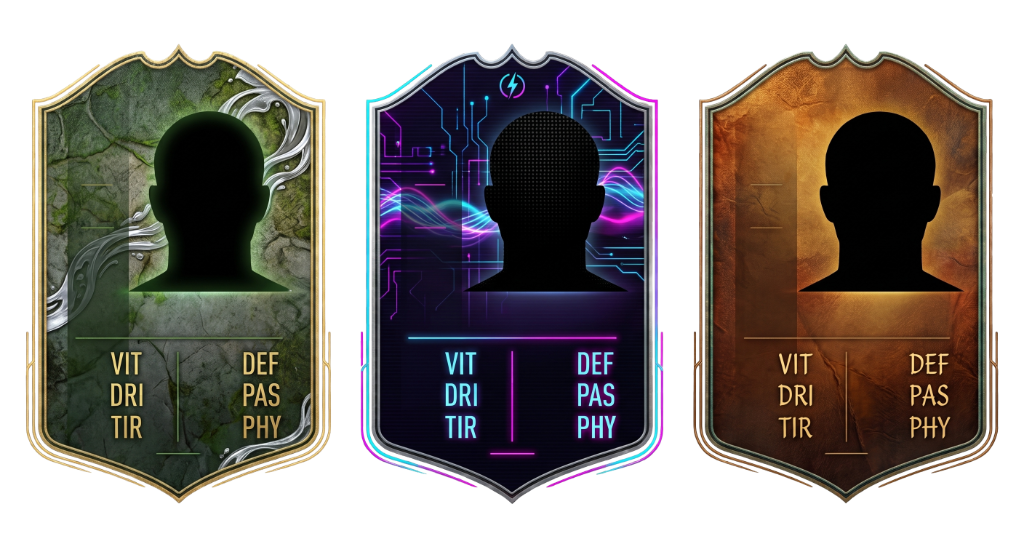
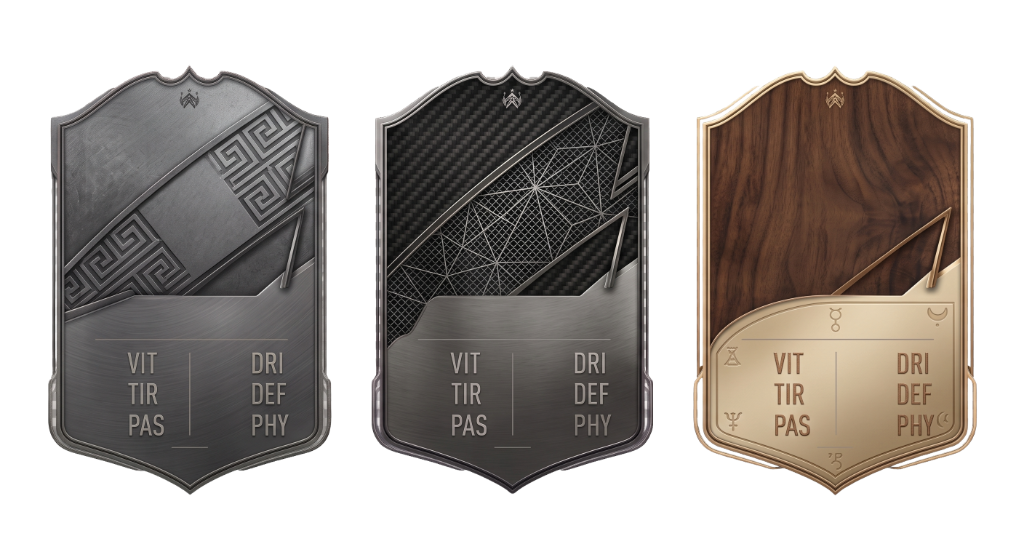
style: replace fantasy card designs with new artwork and update text colors

diff --git a/src/components/CosmeticsStore.jsx b/src/components/CosmeticsStore.jsx
@@ -6,9 +6,9 @@ export const COSMETICS_DATA = [
   { id: 'bronze_alt', name: 'Bronze Gravé', image: '/cosmetics/metals.png?v=2', bgPos: '0% 0%', price: 5, category: 'Métaux (<65 OVR)', minOvr: 0, maxOvr: 64 },
   { id: 'silver_alt', name: 'Argent Sombre', image: '/cosmetics/metals.png?v=2', bgPos: '50% 0%', price: 10, category: 'Métaux (65-74 OVR)', minOvr: 65, maxOvr: 74 },
   { id: 'gold_alt', name: 'Or Pur', image: '/cosmetics/metals.png?v=2', bgPos: '100% 0%', price: 15, category: 'Métaux (75-84 OVR)', minOvr: 75, maxOvr: 84 },
-  { id: 'stone', name: 'Roche Ancienne', image: '/cosmetics/fantasy.png', bgPos: '0% 0%', price: 25, category: 'Fantasy (85+ OVR)', minOvr: 85, maxOvr: 99 },
-  { id: 'cyberpunk', name: 'Néon Cyberpunk', image: '/cosmetics/fantasy.png', bgPos: '50% 0%', price: 25, category: 'Fantasy (85+ OVR)', minOvr: 85, maxOvr: 99 },
-  { id: 'earth', name: 'Terre Aride', image: '/cosmetics/fantasy.png', bgPos: '100% 0%', price: 25, category: 'Fantasy (85+ OVR)', minOvr: 85, maxOvr: 99 },
+  { id: 'stone', name: 'Roche Ancienne', image: '/cosmetics/fantasy.png?v=2', bgPos: '0% 0%', price: 25, category: 'Fantasy (85+ OVR)', minOvr: 85, maxOvr: 99 },
+  { id: 'cyberpunk', name: 'Néon Cyberpunk', image: '/cosmetics/fantasy.png?v=2', bgPos: '50% 0%', price: 25, category: 'Fantasy (85+ OVR)', minOvr: 85, maxOvr: 99 },
+  { id: 'earth', name: 'Terre Aride', image: '/cosmetics/fantasy.png?v=2', bgPos: '100% 0%', price: 25, category: 'Fantasy (85+ OVR)', minOvr: 85, maxOvr: 99 },
   { id: 'elite1', name: 'Elite 87+', image: '/cosmetics/elite.png?v=2', bgPos: '0% 0%', price: 35, category: 'Elite (87+ OVR)', minOvr: 87, maxOvr: 99 },
   { id: 'elite2', name: 'Elite 90+', image: '/cosmetics/elite.png?v=2', bgPos: '50% 0%', price: 50, category: 'Elite (90+ OVR)', minOvr: 90, maxOvr: 99 },
   { id: 'elite3', name: 'Elite 93+', image: '/cosmetics/elite.png?v=2', bgPos: '100% 0%', price: 75, category: 'Elite (93+ OVR)', minOvr: 93, maxOvr: 99 }

diff --git a/src/components/PlayerCard.jsx b/src/components/PlayerCard.jsx
@@ -100,26 +100,26 @@ export const PlayerCard = React.memo(({ player, club, cardType = 'auto', classNa
       hideLabels: true
     },
     stone: {
-      bgImage: "url('/cosmetics/fantasy.png')",
+      bgImage: "url('/cosmetics/fantasy.png?v=2')",
       bgPos: '0% 0%',
       bgSize: '300% 100%',
-      textPrimary: 'text-[#ebdd9f]',
+      textPrimary: 'text-[#94a3b8]',
       textSecondary: 'hidden',
       hideLabels: true
     },
     cyberpunk: {
-      bgImage: "url('/cosmetics/fantasy.png')",
+      bgImage: "url('/cosmetics/fantasy.png?v=2')",
       bgPos: '50% 0%',
       bgSize: '300% 100%',
-      textPrimary: 'text-[#0efaff]',
+      textPrimary: 'text-[#94a3b8]',
       textSecondary: 'hidden',
       hideLabels: true
     },
     earth: {
-      bgImage: "url('/cosmetics/fantasy.png')",
+      bgImage: "url('/cosmetics/fantasy.png?v=2')",
       bgPos: '100% 0%',
       bgSize: '300% 100%',
-      textPrimary: 'text-[#f6c589]',
+      textPrimary: 'text-[#451a03]',
       textSecondary: 'hidden',
       hideLabels: true
     },
